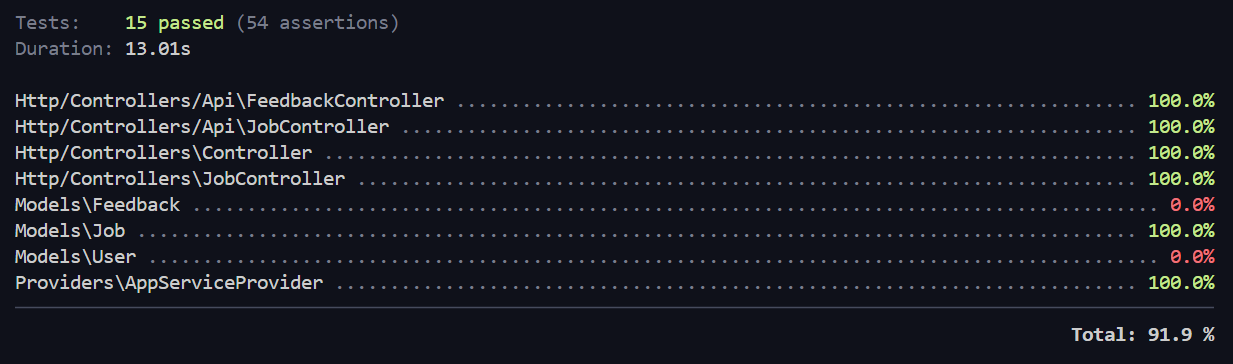
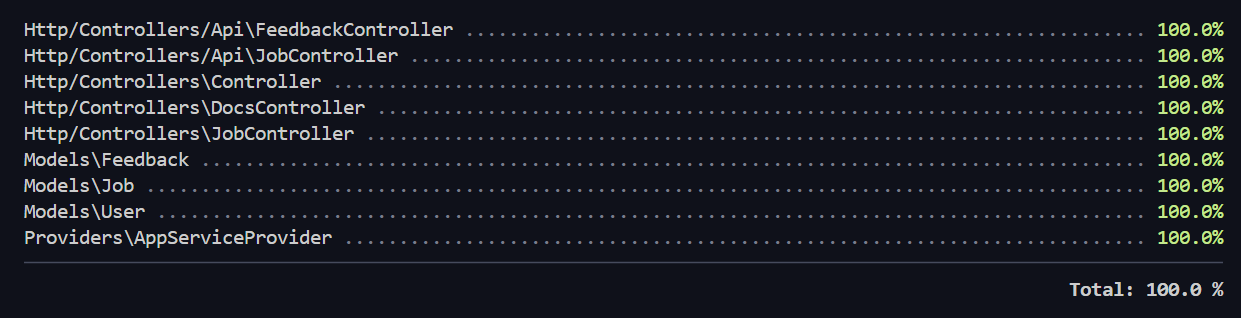
tests: Tested models, reachin 100% coverage

diff --git a/app/Models/User.php b/app/Models/User.php
@@ -38,11 +38,11 @@ class User extends Authenticatable
      *
      * @return array<string, string>
      */
-    protected function casts(): array
-    {
-        return [
-            'email_verified_at' => 'datetime',
-            'password' => 'hashed',
-        ];
-    }
+    // protected function casts(): array
+    // {
+    //     return [
+    //         'email_verified_at' => 'datetime',
+    //         'password' => 'hashed',
+    //     ];
+    // }
 }

diff --git a/tests/Feature/Api/FeedbackTest.php b/tests/Feature/Api/FeedbackTest.php
@@ -15,6 +15,16 @@ class FeedbackTest extends TestCase
      */
     use RefreshDatabase;
 
+    public function test_FeedbackBelongsToJob(): void
+    {
+        Job::factory()->create();
+        $feedback = Feedback::factory()->create([
+            'job_id' => 1
+        ]);
+
+        $this->assertInstanceOf(Job::class, $feedback->job);
+    }
+
     public function test_ReadOneComment(): void
     {
         Job::factory()->create();
